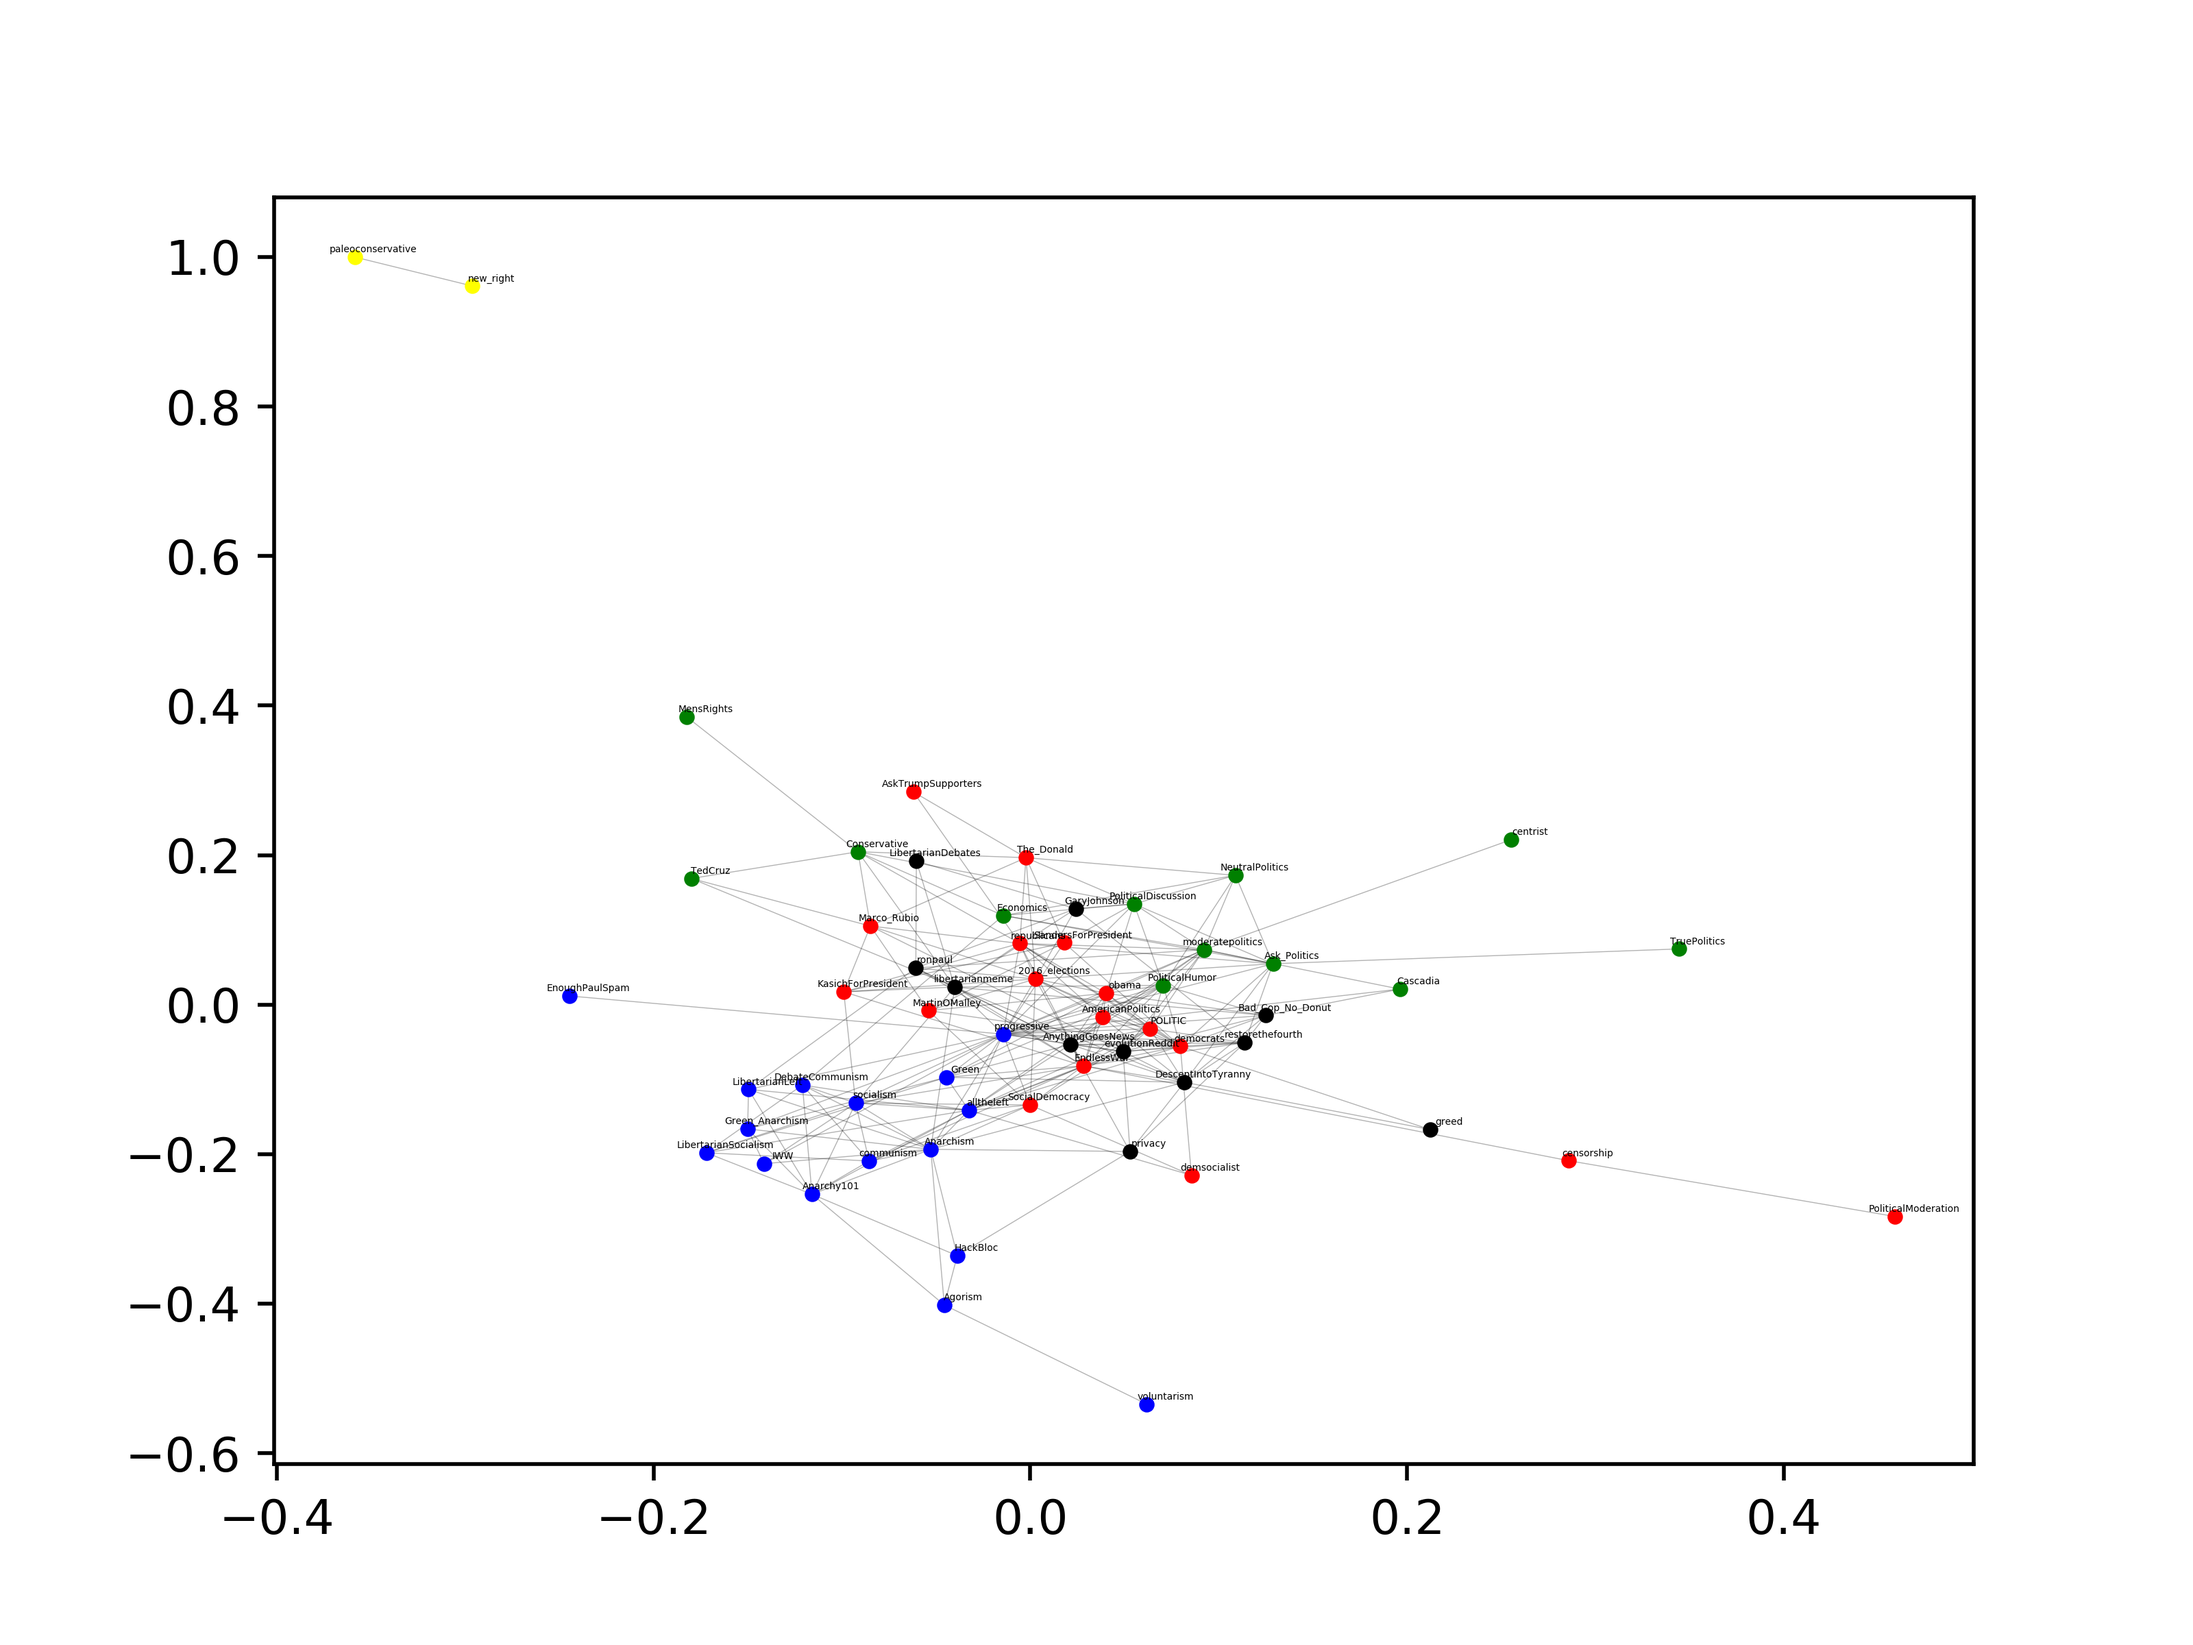
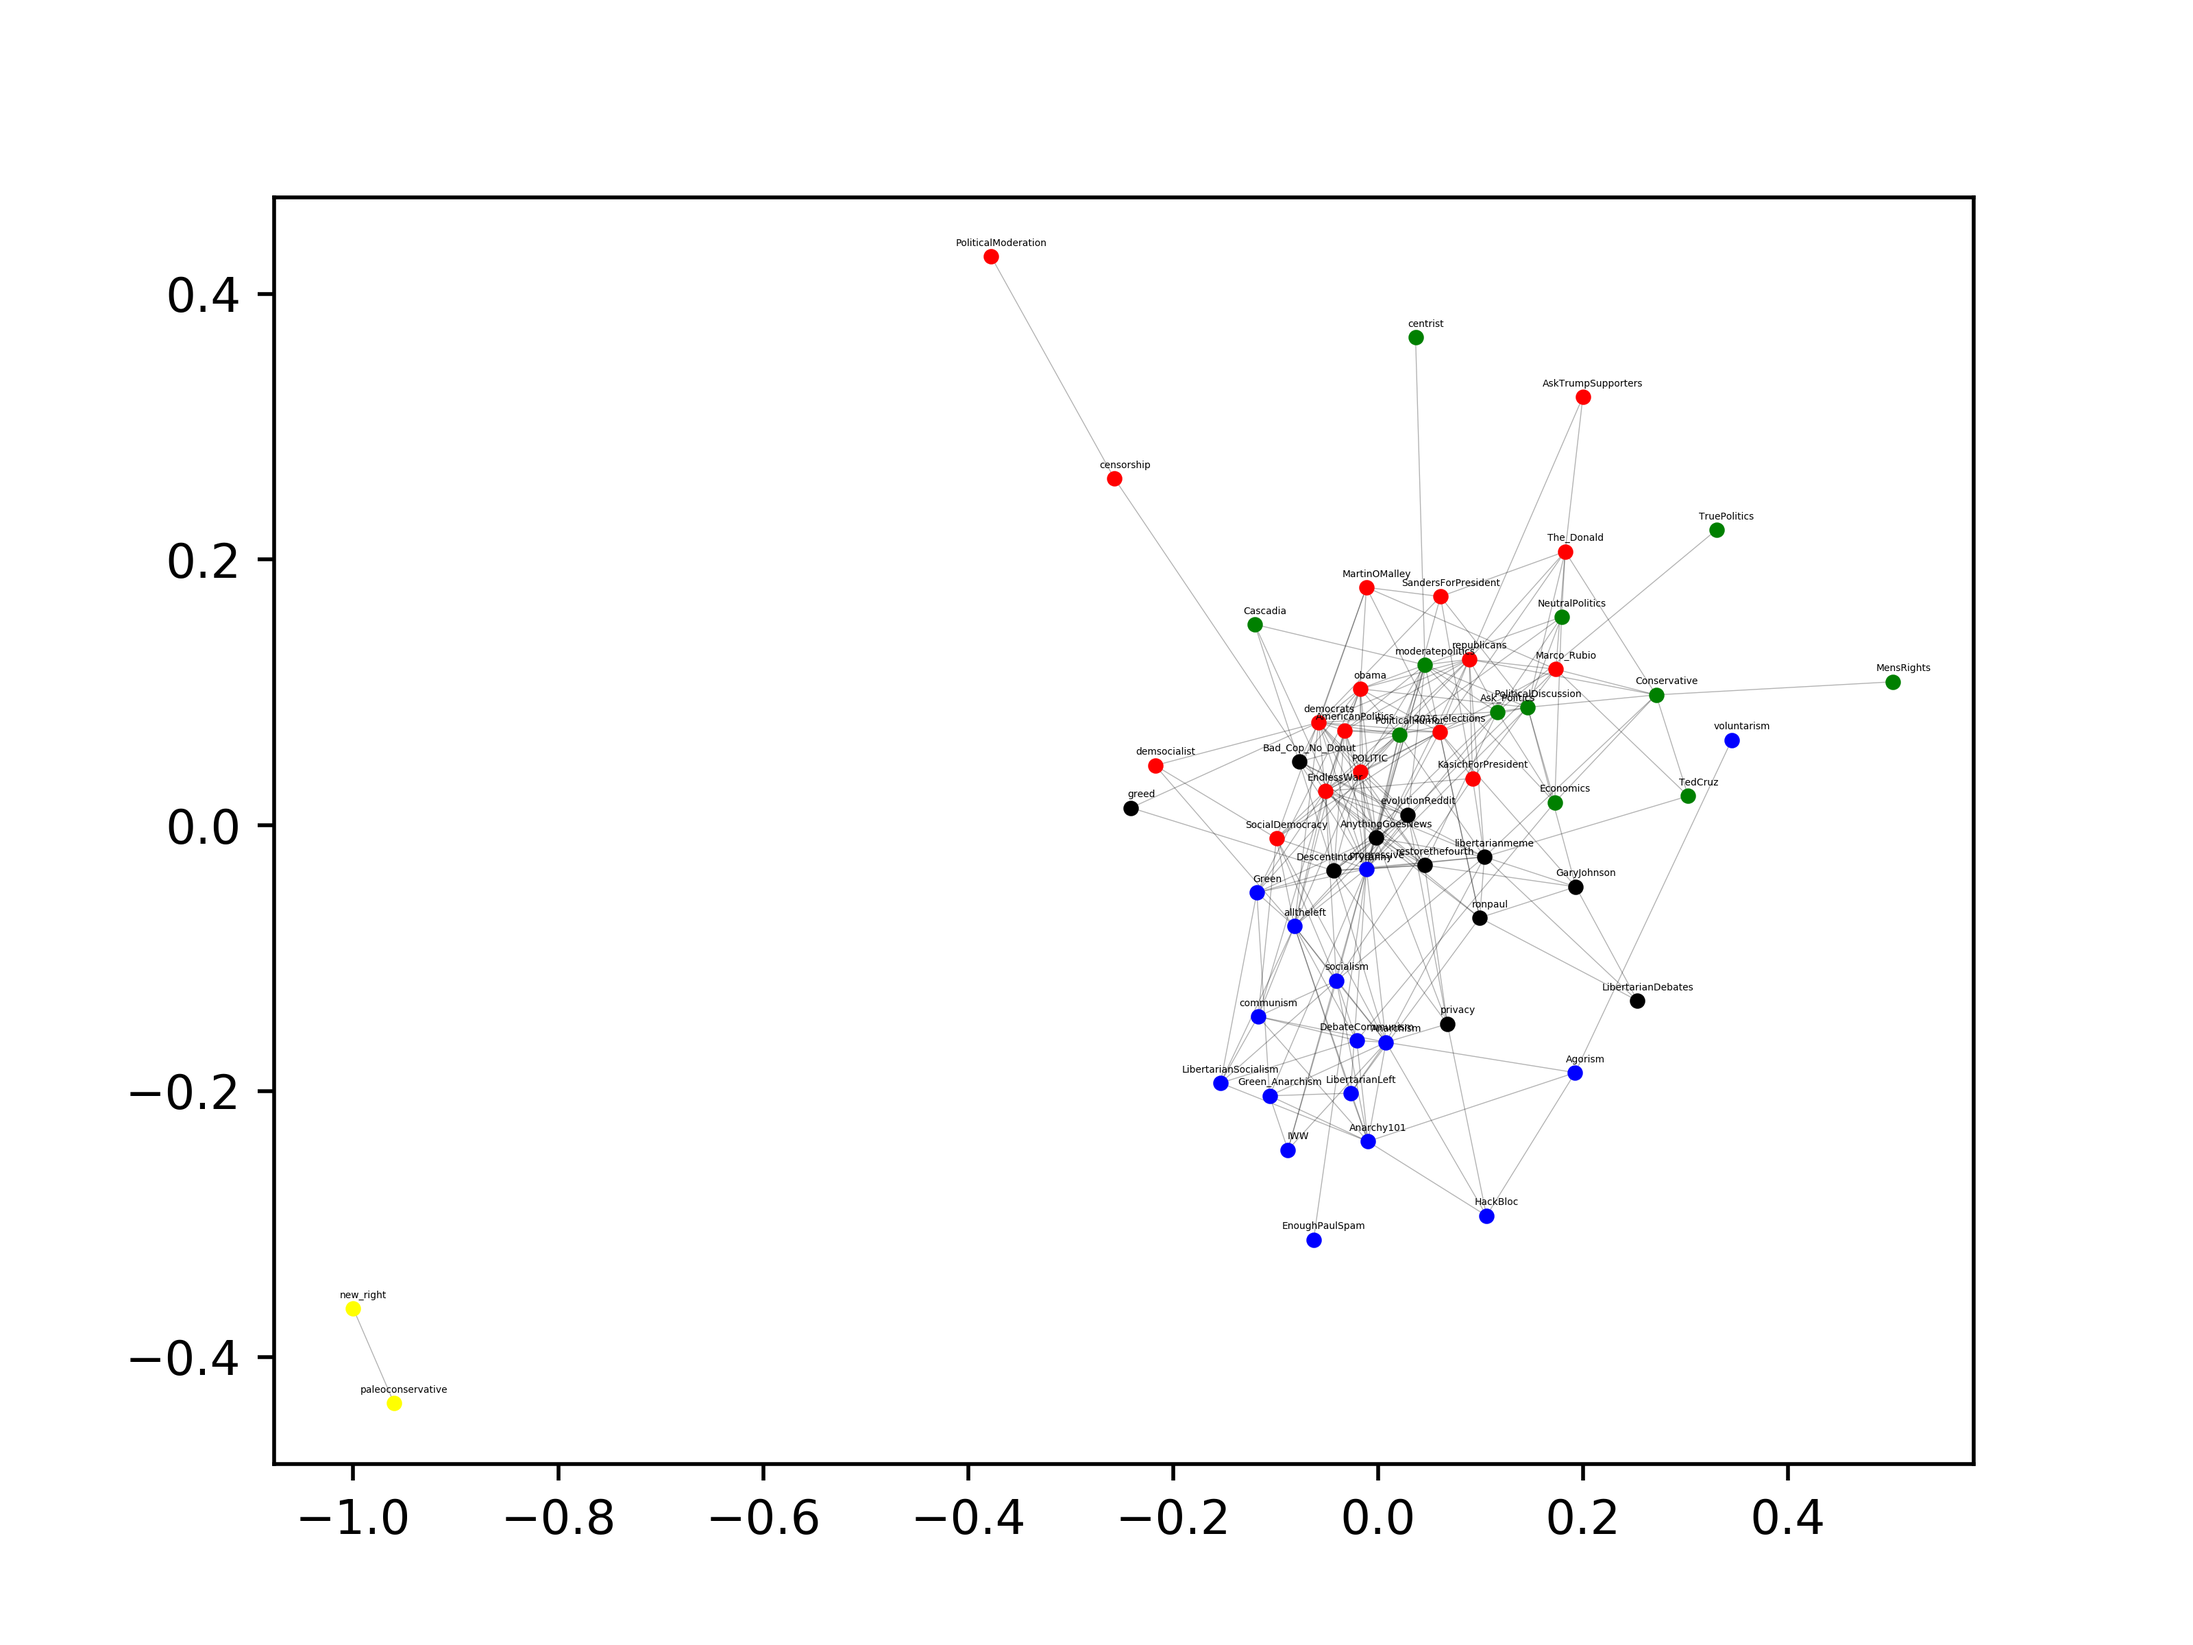
generate a bunch more graphs, and add that data

diff --git a/scripts/community_detection.py b/scripts/community_detection.py
@@ -6,7 +6,7 @@ Created on Sat Dec  8 17:35:32 2018
 """
 
 import sklearn.metrics as metrics
-from settings import graph_str, remove_trolls, plot_str, subreddit_to_category, compute_communities
+from settings import graph_str, remove_trolls, plot_str, subreddit_to_category, compute_communities, compute_hits
 import community
 import networkx as nx
 import matplotlib.pyplot as plt
@@ -84,40 +84,39 @@ plt.savefig(plot_str+"._louvain.png", format="PNG", dpi=500)
 # plt.show()
 
 
+if compute_hits:
+	# hubs, authorities
+	import operator
 
-# hubs, authorities
-import operator
+	hubs, authorities = nx.hits(nx_G)
+	top5_hubs = dict(sorted(hubs.iteritems(), key=operator.itemgetter(1), reverse=True)[:5])
+	top5_authorities = dict(sorted(authorities.iteritems(), key=operator.itemgetter(1), reverse=True)[:5])
 
-hubs, authorities = nx.hits(nx_G)
-top5_hubs = dict(sorted(hubs.iteritems(), key=operator.itemgetter(1), reverse=True)[:5])
-top5_authorities = dict(sorted(authorities.iteritems(), key=operator.itemgetter(1), reverse=True)[:5])
-
-hub_labels = {}
-for node in nx_G.nodes():
-    if node in top5_hubs:
-        #set the node name as the key and the label as its value
-        hub_labels[node] = labels[node]
-pos = nx.spring_layout(nx_G)
-label_pos = {key: val + 0.01 for key, val in pos.items()}
-#set the argument 'with labels' to False so you have unlabeled graph
-nx.draw(nx_G, pos, with_labels=False, node_color = 'g')
-#Now only add labels to the nodes you require (the hubs in my case)
-nx.draw_networkx_labels(nx_G,label_pos,hub_labels,font_size=12,font_color='r')
-plt.savefig(plot_str+"_important_hubs.png", format="PNG")
+	hub_labels = {}
+	for node in nx_G.nodes():
+	    if node in top5_hubs:
+	        #set the node name as the key and the label as its value
+	        hub_labels[node] = labels[node]
+	pos = nx.spring_layout(nx_G)
+	label_pos = {key: val + 0.01 for key, val in pos.items()}
+	#set the argument 'with labels' to False so you have unlabeled graph
+	nx.draw(nx_G, pos, with_labels=False, node_color = 'g')
+	#Now only add labels to the nodes you require (the hubs in my case)
+	nx.draw_networkx_labels(nx_G,label_pos,hub_labels,font_size=12,font_color='r')
+	plt.savefig(plot_str+"_important_hubs.png", format="PNG")
 
 
-authorities_labels = {}
-for node in nx_G.nodes():
-    if node in top5_authorities:
-        #set the node name as the key and the label as its value
-        authorities_labels[node] = labels[node]
-pos = nx.spring_layout(nx_G)
-label_pos = {key: val + 0.01 for key, val in pos.items()}
-#set the argument 'with labels' to False so you have unlabeled graph
-nx.draw(nx_G, pos, with_labels=False, node_color = 'g')
-#Now only add labels to the nodes you require (the hubs in my case)
-nx.draw_networkx_labels(nx_G,label_pos,authorities_labels,font_size=16,font_color='r')
-
+	authorities_labels = {}
+	for node in nx_G.nodes():
+	    if node in top5_authorities:
+	        #set the node name as the key and the label as its value
+	        authorities_labels[node] = labels[node]
+	pos = nx.spring_layout(nx_G)
+	label_pos = {key: val + 0.01 for key, val in pos.items()}
+	#set the argument 'with labels' to False so you have unlabeled graph
+	nx.draw(nx_G, pos, with_labels=False, node_color = 'g')
+	#Now only add labels to the nodes you require (the hubs in my case)
+	nx.draw_networkx_labels(nx_G,label_pos,authorities_labels,font_size=16,font_color='r')
 
 def get_metrics(partition):
 	sub_to_detected_communities = {}
@@ -137,12 +136,17 @@ def get_metrics(partition):
 	for sub in sorted(sub_to_ground_truth.keys()):
 		ground_truth_arr.append(sub_to_ground_truth[sub])
 
-	print 'Rand: ' + str(metrics.adjusted_rand_score(ground_truth_arr, detected_arr))
-	print 'Completeness: ' + str(metrics.completeness_score(ground_truth_arr, detected_arr))
-	print 'Homogeneity: ' + str(metrics.homogeneity_score(ground_truth_arr, detected_arr))
-	print 'Fowlkes Mallows: ' + str(metrics.fowlkes_mallows_score(ground_truth_arr, detected_arr))
+	# print 'Rand: ' + str(metrics.adjusted_rand_score(ground_truth_arr, detected_arr))
+	return metrics.completeness_score(ground_truth_arr, detected_arr)
+	# print 'Homogeneity: ' + str(metrics.homogeneity_score(ground_truth_arr, detected_arr))
+	# print 'Fowlkes Mallows: ' + str(metrics.fowlkes_mallows_score(ground_truth_arr, detected_arr))
 
 print '=============Metrics for rewired============='
-get_metrics(rewired_partition)
-print '=============Metrics for original============='
-get_metrics(partition)
+score1 = get_metrics(rewired_partition)
+print 'Completeness: ' + str(score1)
+
+print '=============Metrics for generated============='
+score2 = get_metrics(partition)
+print 'Completeness: ' + str(score2)
+
+print 'Difference: ' + str(score2 - score1)

diff --git a/scripts/settings.py b/scripts/settings.py
@@ -56,12 +56,52 @@ post_connection_threshold = 1 # haven't tried changing this yet
 connect_via_comment = True
 comment_connection_threshold = 1 # haven't tried changing this yet
 
-fold_connection_threshold = 5
+fold_connection_threshold = 3
 should_deconvolve = False
-just_trolls = False # if this is true, make remove trolls false
+just_trolls = True # if this is true, make remove trolls false
 remove_trolls = False
 show_networkx_deconvolved = False
 compute_communities = True
+compute_hits = False
+
+"""
+Some scores for certain graphs
+
+GENERATED GRAPH: graphs/2016-3comments-1000CommentCap--_just-trolls
+=============Metrics for rewired=============
+Completeness: 0.369070246429
+=============Metrics for generated=============
+Completeness: 0.579380164286
+Difference: 0.210309917857
+
+GENERATED GRAPH: graphs/2016-5comments-1000CommentCap--_
+=============Metrics for rewired=============
+Completeness: 0.242966121584
+=============Metrics for generated=============
+Completeness: 0.521165499398
+Difference: 0.278199377814
+
+GENERATED GRAPH: graphs/2016-5comments-1000CommentCap--_without_trolls
+=============Metrics for rewired=============
+Completeness: 0.353493683379
+=============Metrics for generated=============
+Completeness: 0.652223699671
+Difference: 0.298730016292
+
+GENERATED GRAPH: graphs/2016-5comments-1000CommentCap--deconvolved_
+=============Metrics for rewired=============
+Completeness: 0.526215201148
+=============Metrics for generated=============
+Completeness: 0.643298377467
+Difference: 0.117083176319
+
+GENERATED GRAPH: graphs/2016-5comments-1000CommentCap--deconvolved_without_trolls
+=============Metrics for rewired=============
+Completeness: 0.531373301291
+=============Metrics for generated=============
+Completeness: 0.643993886322
+Difference: 0.112620585031
+"""
 
 comments_csv = 'data/'+year+'_comments_'+str(comments_cap)+'capped.csv'
 posts_csv = 'data/'+year+'_posts_'+str(posts_cap)+'capped.csv'

diff --git a/scripts/generate_graph.py b/scripts/generate_graph.py
@@ -9,7 +9,7 @@ if should_deconvolve:
 
 import convert_to_gephi
 
+print "GENERATED GRAPH: " + graph_str
+
 if compute_communities:
     import community_detection
-
-print graph_str
